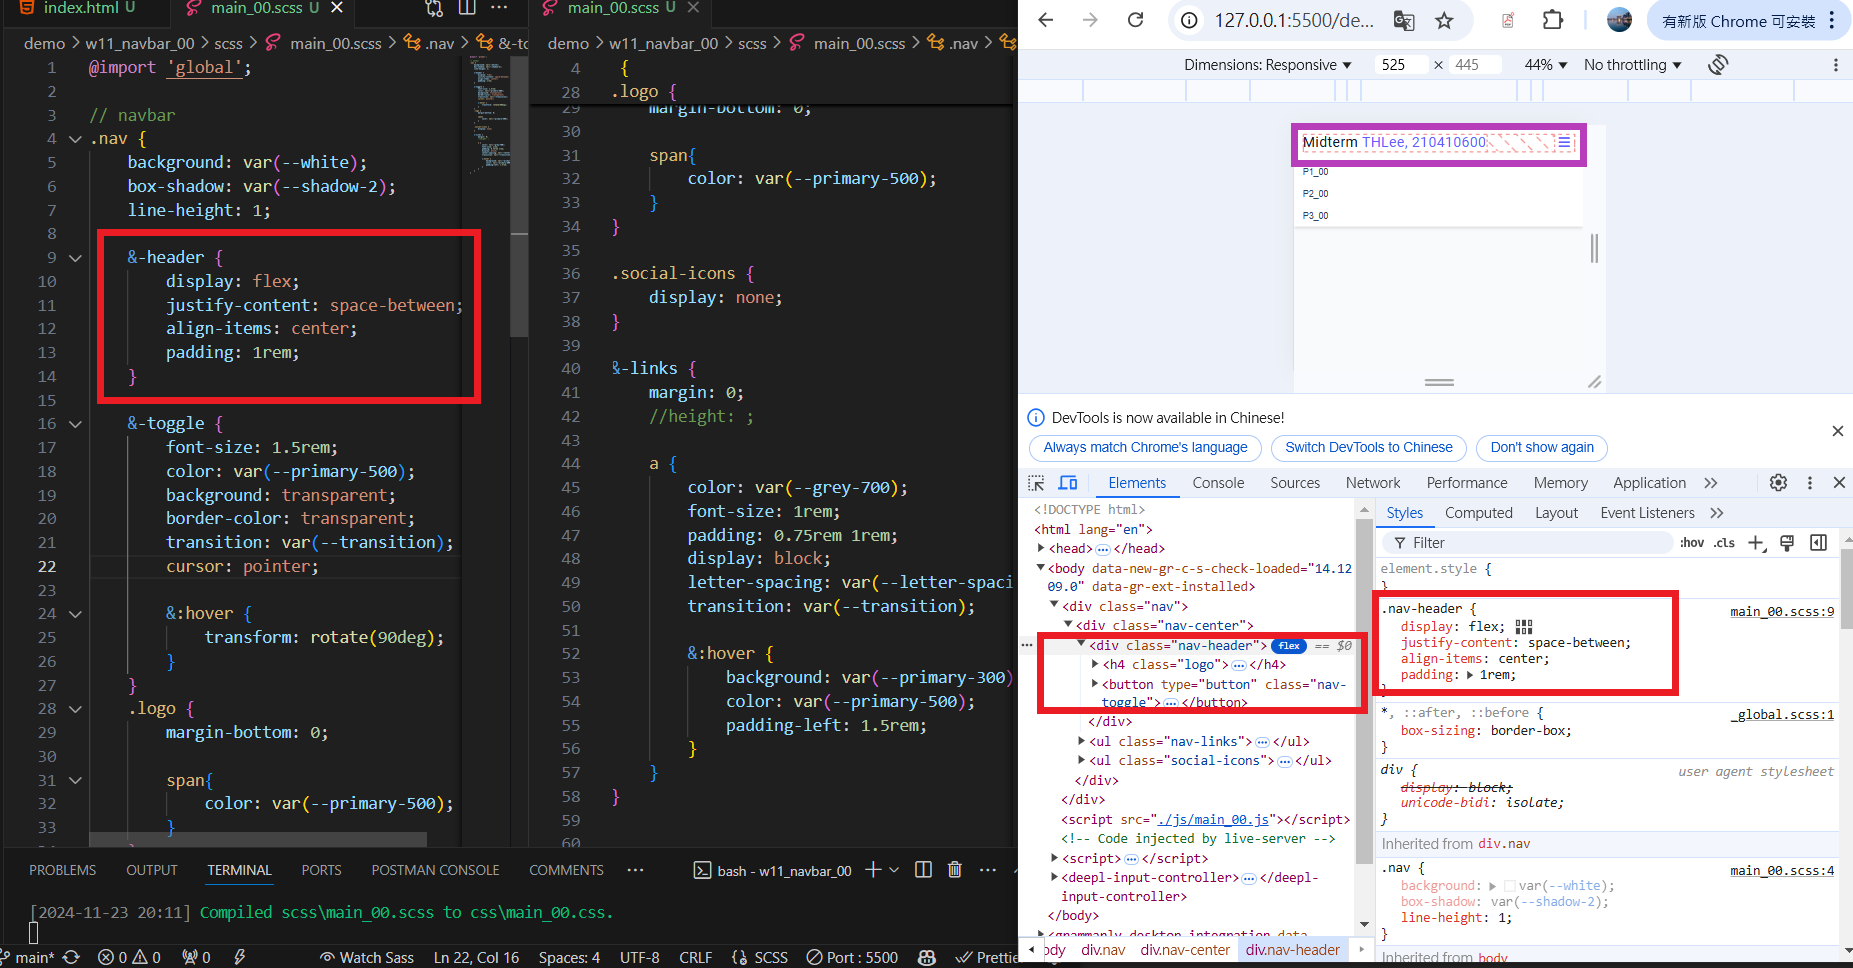
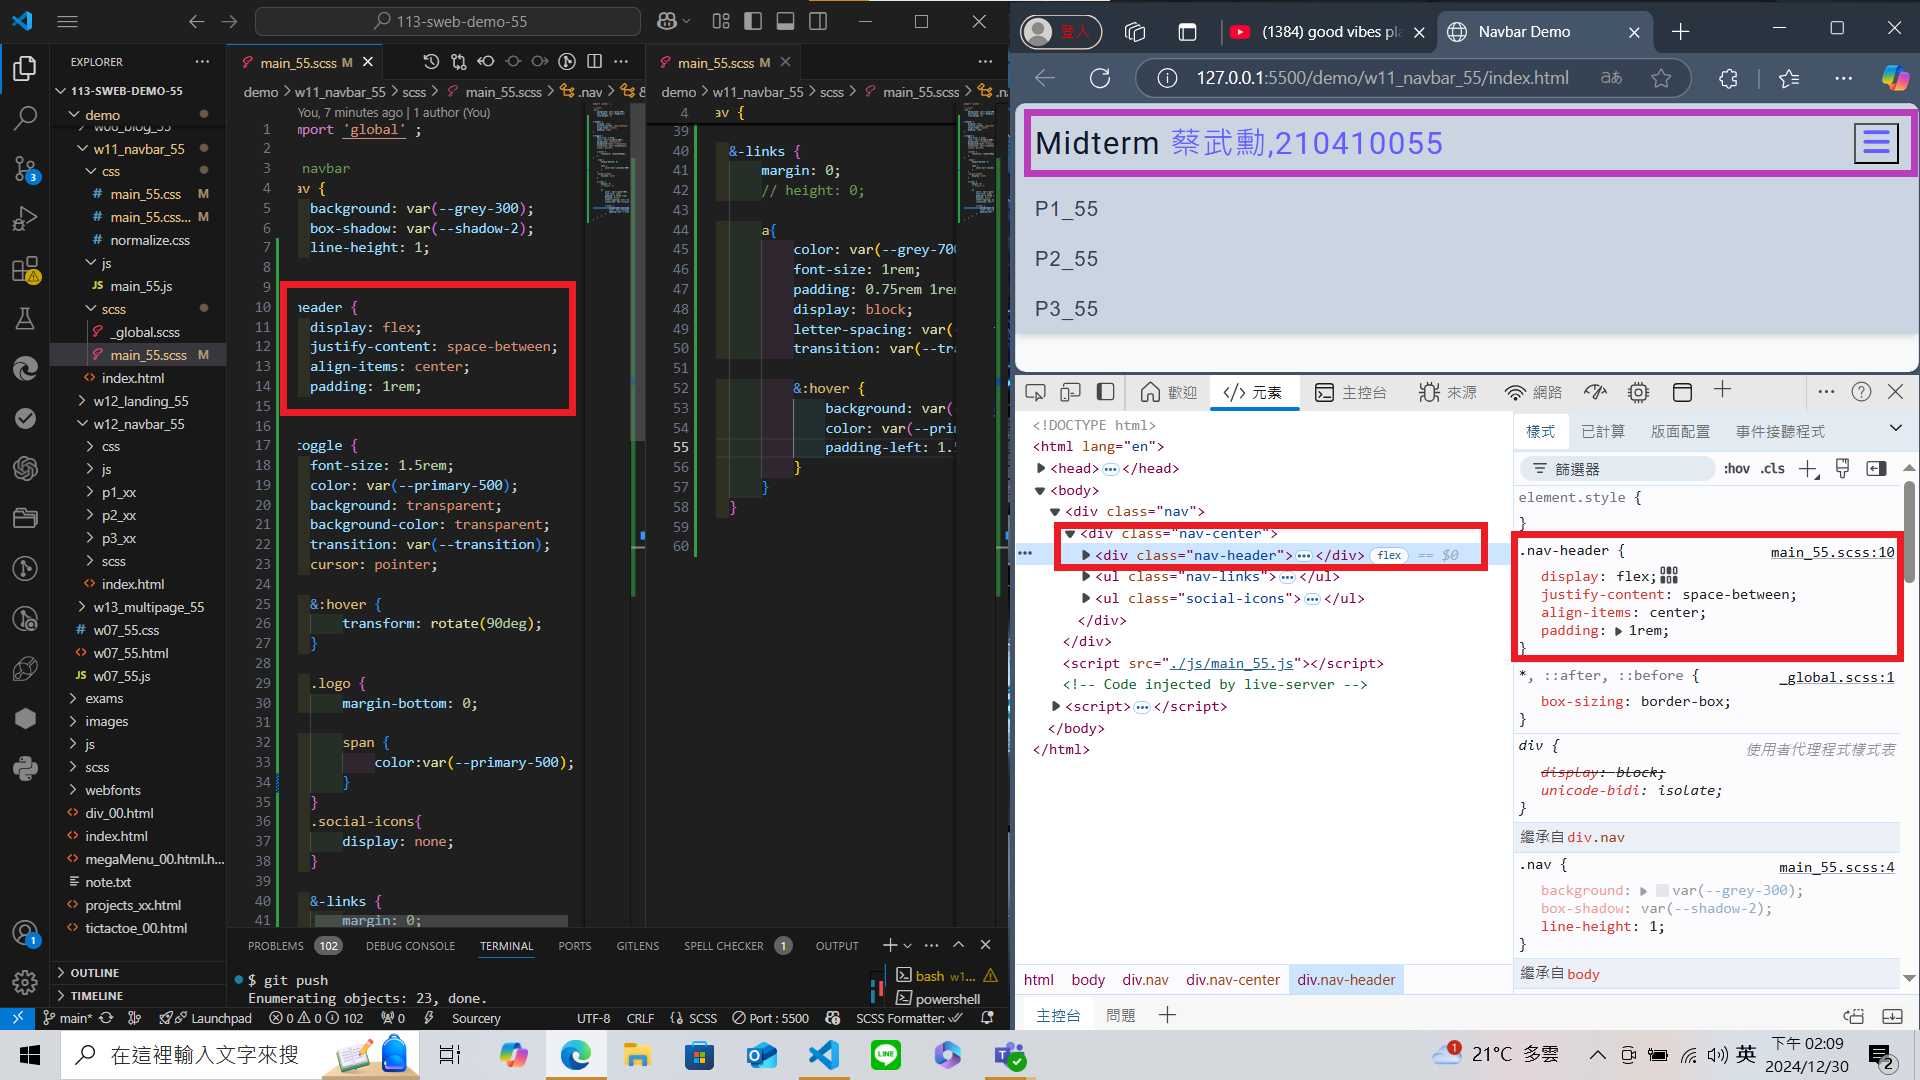
W11-P3: scss for small screen

diff --git a/demo/w11_navbar_55/scss/main_55.scss b/demo/w11_navbar_55/scss/main_55.scss
@@ -4,4 +4,56 @@
 .nav {
     background: var(--grey-300);
     box-shadow: var(--shadow-2);
+    line-height: 1;
+
+
+&-header {
+    display: flex;
+    justify-content: space-between;
+    align-items: center;
+    padding: 1rem;
+}
+
+&-toggle {
+    font-size: 1.5rem;
+    color: var(--primary-500);
+    background: transparent;
+    background-color: transparent;
+    transition: var(--transition);
+    cursor: pointer;
+
+    &:hover {
+        transform: rotate(90deg);
+    }
+}
+    .logo {
+        margin-bottom: 0;
+
+        span {
+            color:var(--primary-500);
+        }
+    }
+    .social-icons{
+        display: none;
+    }
+
+    &-links {
+        margin: 0;
+        // height: 0;
+
+        a{
+            color: var(--grey-700);
+            font-size: 1rem;
+            padding: 0.75rem 1rem;
+            display: block;
+            letter-spacing: var(--letterSpacing);
+            transition: var(--transition);
+
+            &:hover {
+                background: var(--prinary-300);
+                color: var(--primary-500);
+                padding-left: 1.5rem;
+            }
+        }
+    }
 }

diff --git a/demo/w11_navbar_55/css/main_55.css b/demo/w11_navbar_55/css/main_55.css
@@ -246,6 +246,49 @@ ul {
 .nav {
   background: var(--grey-300);
   box-shadow: var(--shadow-2);
+  line-height: 1;
+}
+.nav-header {
+  display: flex;
+  justify-content: space-between;
+  align-items: center;
+  padding: 1rem;
+}
+.nav-toggle {
+  font-size: 1.5rem;
+  color: var(--primary-500);
+  background: transparent;
+  background-color: transparent;
+  transition: var(--transition);
+  cursor: pointer;
+}
+.nav-toggle:hover {
+  transform: rotate(90deg);
+}
+.nav .logo {
+  margin-bottom: 0;
+}
+.nav .logo span {
+  color: var(--primary-500);
+}
+.nav .social-icons {
+  display: none;
+}
+.nav-links {
+  margin: 0;
+}
+.nav-links a {
+  color: var(--grey-700);
+  font-size: 1rem;
+  padding: 0.75rem 1rem;
+  display: block;
+  letter-spacing: var(--letterSpacing);
+  transition: var(--transition);
+}
+.nav-links a:hover {
+  background: var(--prinary-300);
+  color: var(--primary-500);
+  padding-left: 1.5rem;
 }
 
 /*# sourceMappingURL=main_55.css.map */
